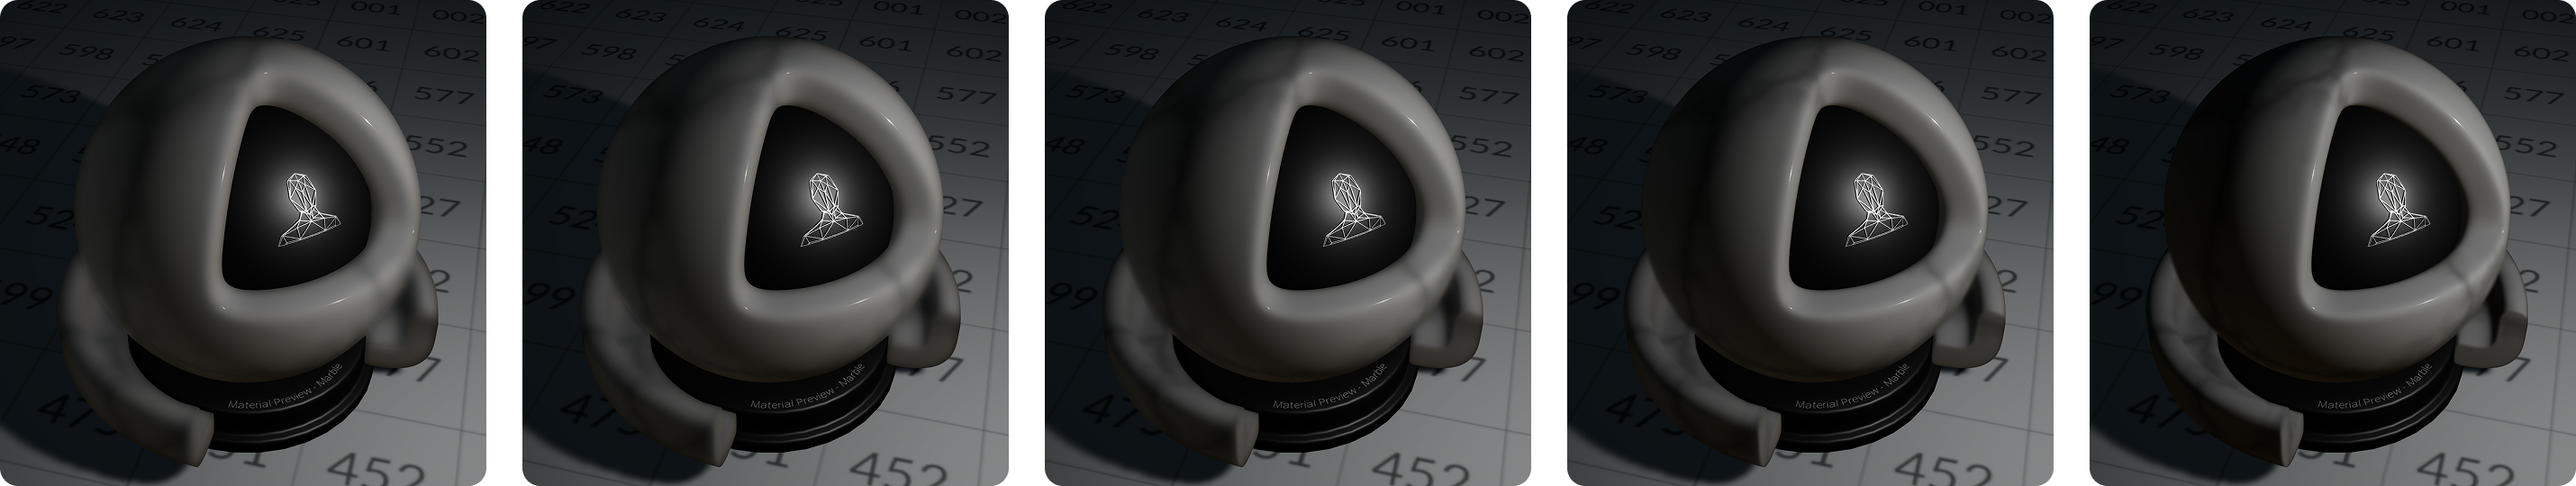
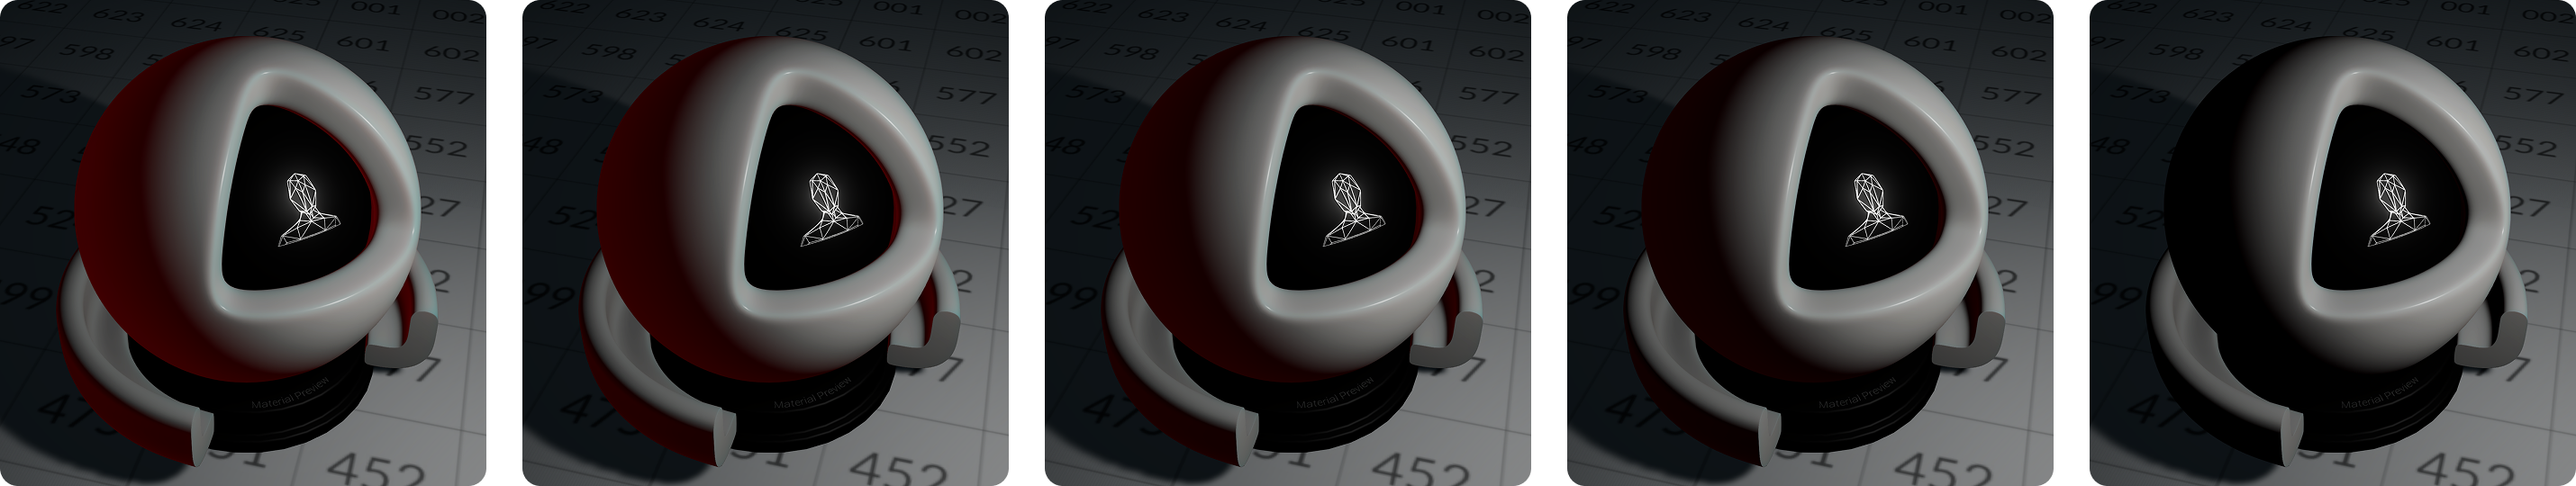
added stills and redid shaderball

diff --git a/_includes/add-image-with-caption.html b/_includes/add-image-with-caption.html
@@ -4,26 +4,28 @@
 {% assign max_w = include.max_width | default: '100%' %}
 
 <style>
-  .fig-wrap {
-    position: relative;
-    max-width: {{ max_w }};
-    margin: 0.25rem auto;
-    user-select: none;
-  }
-  .fig-wrap img {
+    .fig-wrap {
+      position: relative;
+      max-width: {{ max_w }};
+      margin: 0.25rem auto;
+      user-select: none;
+    }
+    .fig-wrap img {
     display: block;
     width: 100%;
-    height: 100%;
+    height: auto;
+    object-fit: contain;
+    border-radius: 15px;
     user-select: none;
-    border-radius:15px;
     pointer-events: none;
   }
-  .ba-caption {
-    text-align: center;
-    font-size: .9rem;
-    margin-bottom: 1rem;
-    color: var(--text-muted, #666);
-  }
+    .ba-caption {
+      text-align: center;
+      font-size: .9rem;
+      margin-bottom: 1rem;
+      color: var(--text-muted, #666);
+    }
+    
 </style>
 
 <div class="fig-wrap" style="max-width: {{ max_w }};">

diff --git a/_posts/2026-04-28-separable-subsurface-scattering-in-unity-6.md b/_posts/2026-04-28-separable-subsurface-scattering-in-unity-6.md
@@ -6,7 +6,7 @@ author: bennett
 categories: [Computer Graphics]
 tags: [subsurface scattering, unity, shader, urp, hlsl]
 math: true
-image: "assets/img/sss-unity-6/Bust.png"
+image: "assets/img/sss-unity-6/Showcase/Dragon.png"
 ---
 
 This project is an implementation of Jorge Jimenez's artist-friendly separable model in my [**seminar research paper**](/research/#real-time-subsurface-scattering-a-comparative-analysis). As a result, this post will solely focus on its implementation in Unity 6 without diving too deep into the theory behind it. 
@@ -48,6 +48,12 @@ For multiple render targets, we simply write to more outputs: `SV_Target1`, `SV_
 
 Using [**this**]() PBR shader as a starting point, we can refactor the fragment output so each lighting component is written to its own colour target. 
 
+{% include add-image-with-caption.html
+   src="assets/img/sss-unity-6/ShaderBall/WIP/PBR.png"
+   alt="Unity Render"
+   caption="PBR Base"
+   max_width="1080px"
+%}
 
 >Since this shader supports multiple lighting models, each with its own settings, I use a custom `ShaderGUI` to keep the material inspector clean and only show the controls relevant to the selected model. The script for this can be found [**here**]().
 {:.prompt-info}
@@ -542,7 +548,12 @@ public class SSSSRenderPass : ScriptableRenderPass
 ```
 </details>
 
-------------- *Show diffuse, ambient and specular parts* -------------
+{% include add-image-with-caption.html
+   src="assets/img/sss-unity-6/ShaderBall/WIP/Ambient Diffuse Specular.png"
+   alt="Unity Render"
+   caption="Ambient, diffuse and specular components of our PBR material"
+   max_width="1080px"
+%}
 
 ---
 ## 2. Scattering the diffuse lighting
@@ -638,7 +649,7 @@ $$
 Here, we only consider a fixed number of samples $$N$$ on each side of the pixel $$u$$. The numerator sums them up and the denominator normalises them so that the brightness stays stable when we adjust the kernel parameters.
 
 As shown in section 4a and 4b in `SSSSRenderPass.cs`, this shader is used through a material `SSSSMaterial`. The convolution is performed twice: once for horizontal and once for vertical. The code remains the same, only the direction changes.
- 
+
 <details class="collapsible" markdown="1">
 <summary>
   <span class="collapsible-label">Show:</span>
@@ -748,7 +759,12 @@ Shader "bentoBAUX/SSSS Util/ArtistFriendlyKernel"
 ```
 </details>
 
-------------- *Show intermediate result* ------------- 
+{% include add-image-with-caption.html
+   src="assets/img/sss-unity-6/ShaderBall/WIP/SSS.png"
+   alt="Unity Render"
+   caption="Result after two 1D convolutions"
+   max_width="1080px"
+%}
 
 ---
 ## 3. Reconstructing the final image
@@ -934,6 +950,12 @@ Shader "bentoBAUX/SSSS Util/Compositor"
 
 There is one last RenderGraph detail in `SSSSRenderPass.cs`. We cannot safely read from the `resourceData.activeColorTexture` and write back into that same texture in the same pass. The `CompositeFrag()` therefore writes into a temporary output texture first. After that, we run `CopyFrag()` that copies this temporary result back into the active scene colour texture.
 
+{% include add-image-with-caption.html
+   src="assets/img/sss-unity-6/ShaderBall/WIP/Composite.png"
+   alt="Unity Render"
+   caption="Composite Result"
+   max_width="1080px"
+%}
 
 ## Bonus: Adding Transmission
 
@@ -1013,48 +1035,49 @@ float3 CalculateTransmittance(Surf surfaceData, Light lightData)
 ```
 </details>
 
-## Showcase
-
-#### Perseus
-
-This showcase uses the Perseus model by [**leofinearts**](https://sketchfab.com/3d-models/perseus-53d894b3cc184012afaa70f4b3b2ddce) on Sketchfab. The model is used here as a consistent sculptural test subject for comparing the skin, marble, jade and wax material presets.
-
-{% include slide-show.html
-  slides="
-  /assets/img/sss-unity-6/Perseus/Still/Skin.png | Perseus Skin ;
-  /assets/img/sss-unity-6/Perseus/Still/Marble.png | Perseus Marble ;
-  /assets/img/sss-unity-6/Perseus/Still/Jade.png | Perseus Jade ;
-  /assets/img/sss-unity-6/Perseus/Still/Wax.png | Perseus Wax ;
-  "
-  max_width="1920px"
-  dots="true"
-  autoplay="false"
+{% include add-image-with-caption.html
+   src="assets/img/sss-unity-6/ShaderBall/WIP/Transmission.png"
+   alt="Unity Render"
+   caption="Transmission with thickness of 15"
+   max_width="1080px"
 %}
+
+## Showcase
 
 #### Digital Human
 
-This showcase uses the free HD head model from [**3D Scan Store**](https://www.3dscanstore.com/blog/Free-3D-Head-Model) as a high-detail skin test subject. The asset includes head geometry, supporting facial meshes, and 8K texture maps, making it useful for evaluating subsurface scattering on realistic skin.
+I found this free HD head model from [**3D Scan Store**](https://www.3dscanstore.com/blog/Free-3D-Head-Model) as a high-detail skin test subject. The asset includes head geometry, supporting facial meshes, and 8K texture maps, making it useful for evaluating subsurface scattering on realistic skin.
+![Woman](../assets/img/sss-unity-6/Showcase/Woman-Side.png)
 
-![Woman](../assets/img/sss-unity-6/Woman/Woman.png)
+#### Jade Dragon
+
+Our material is also capable of modelling non-organic translucent materials. Here, we use the dragon model from [**Artec 3D**](https://sketchfab.com/3d-models/dragon-with-pearl-93d65f56fdd34311ad55112f90ba4a82) to demonstrate a jade-like scattering profile.
+![Jade Dragon](../assets/img/sss-unity-6/Showcase/Dragon.png)
+
+#### Rossbaendiger
+
+The Rossbändiger statue from [**noe-3d.at**](https://sketchfab.com/3d-models/rossbandiger-1c6197c72a4a4d5d9676ed15c2c35004) showcases subsurface scattering on a large marble surface.
+
+![Rossbaendiger](../assets/img/sss-unity-6/Showcase/Rossbaendiger.png)
+
+#### Cherub
+
+The cherub from [**Nom**](https://sketchfab.com/3d-models/photogrammetryretopology-cherub-668237aabbf54beeb347bbaa7be930c7) serves as a wax-like material study.
+![alt text](../assets/img/sss-unity-6/Showcase/Cherub.png)
 
 #### Parameter Study
-To make the behaviour of the shader easier to compare, each showcase keeps the scene, camera, lighting, and post-processing fixed. Only the demonstrated parameter changes between renders.
+To make the behaviour of the shader easier to compare, each showcase keeps the scene, camera, lighting, and post-processing fixed. Only the demonstrated parameter changes between renders. This is the material preset used for this study:
 
+| Parameter         | Value                    |
+| ----------------- | ------------------------ |
+| Subsurface Weight | 1.0                      |
+| Scatter Scale     | 10.0                     |
+| Near/Far Balance  | 0.25                     |
+| Near Sigma        | (0.35, 0.07, 0.035, 1.0) |
+| Far Sigma         | (1.0, 0.12, 0.10, 1.0)   |
+| Sample Count      | 32                       |
 
-##### Material Presets
-A comparison of several material presets using the same shaderball setup. Each material uses a different scattering profile to demonstrate how subsurface scattering affects a wide range of translucent surfaces. 
-
-A complete table containing all preset parameter values is provided after this showcase section.
-
-{% include add-image-with-caption.html
-   src="../assets/img/sss-unity-6/ShaderBall/Different Materials.png"
-   alt="Material preset comparison"
-   caption="Comparing ketchup, jade, marble, skin and wax"
-   max_width="1920px"
-%}
-
-
-##### Subsurface Weight
+###### **Subsurface Weight**
 
 The subsurface weight controls the blend between the original diffuse lighting and the processed subsurface result. Lower values preserve the original surface shading, while higher values reveal more of the scattered diffuse contribution.
 
@@ -1062,11 +1085,11 @@ The subsurface weight controls the blend between the original diffuse lighting a
    src="../assets/img/sss-unity-6/ShaderBall/Subsurface Weight.png"
    alt="Subsurface weight comparison"
    caption="Subsurface Weight from 0.0 to 1.0"
-   max_width="1920px"
+   max_width="2860px"
 %}
 
 
-##### Scatter Scale
+###### **Scatter Scale**
 
 
 Scatter scale acts as a global multiplier for the scattering distances. Increasing it spreads the subsurface effect further across the surface.
@@ -1075,56 +1098,51 @@ Scatter scale acts as a global multiplier for the scattering distances. Increasi
    src="../assets/img/sss-unity-6/ShaderBall/Scatter Scale.png"
    alt="Scatter scale comparison"
    caption="Scatter Scale from 0.0 to 10.0"
-   max_width="1920px"
+   max_width="2860px"
 %}
 
-##### Near/Far Balance
+###### **Near/Far Balance**
 
-The near/far balance controls the blend between the short-range and long-range scattering profiles. Lower values favour broader far scattering, while higher values favour tighter near scattering.
+The near/far balance controls the blend between the short-range and long-range scattering profiles. Lower values favour broader far scattering, while higher values favour tighter near scattering. Here, the Near Sigma is set to (0.35, 0.07, 0.035) and the Far Sigma is set to (1.00, 0.12, 0.10).
 
 {% include add-image-with-caption.html
    src="../assets/img/sss-unity-6/ShaderBall/NFB.png"
    alt="Near far balance comparison"
    caption="Near/Far Balance from 0.0 to 1.0"
-   max_width="1920px"
+   max_width="2860px"
 %}
 
 
-##### Near Sigma
+###### **Near/Far Sigma**
 
-Near sigma controls the short-range scattering profile. This mainly affects local softness and how much small surface detail is preserved.
+Near/Far Sigma controls the scattering distance per colour channel. Lower values keep the material sharper and more surface-like, while higher values spread the diffuse lighting further across the surface, creating a softer and more translucent response.
 
 {% include add-image-with-caption.html
-   src="../assets/img/sss-unity-6/ShaderBall/Near Sigma.png"
-   alt="Near sigma comparison"
-   caption="Near sigma values: (0.45, 0.55, 0.65), (0.8, 0.9, 1.0), (1.4, 1.6, 1.8)"
-   max_width="1920px"
+   src="../assets/img/sss-unity-6/ShaderBall/Sigma.png"
+   alt="Sigma comparison"
+   caption="Sigma values: (0.15, 0.03, 0.015), (0.35, 0.07, 0.035), (0.80, 0.16, 0.08)"
+   max_width="2860px"
 %}
 
-##### Far Sigma
+###### **Sample Count**
 
-Far sigma controls the long-range scattering profile. Higher values create broader diffusion and a softer, more translucent material response.
+Sample Count controls how many neighbours are sampled on each side of a pixel. Differences become increasingly subtle with higher sample counts.
 
 {% include add-image-with-caption.html
-   src="../assets/img/sss-unity-6/ShaderBall/Far Sigma.png"
-   alt="Far sigma comparison"
-   caption="Far sigma values: (1.8, 2.2, 2.5), (3.2, 3.8, 4.2), (5.5, 6.5, 7.2)"
-   max_width="1920px"
+   src="../assets/img/sss-unity-6/ShaderBall/StepCount.png"
+   alt="Sigma comparison"
+   caption="Sample Count from 0 to 64"
+   max_width="2860px"
 %}
-
-
-
-## Material Presets
 
 
 ## Limitations
 
 
-Preset part
 Limitation: this isnt a per object sss. it is one setting for all objects in the scene.
 ADD A LAYER CALLED SSSS
 NO FOG SUPPORT
-
+BETTER TO RENDER AN EXTRA FLAT COLOUR FOR MASK
 
 
 SHOWCASE:
